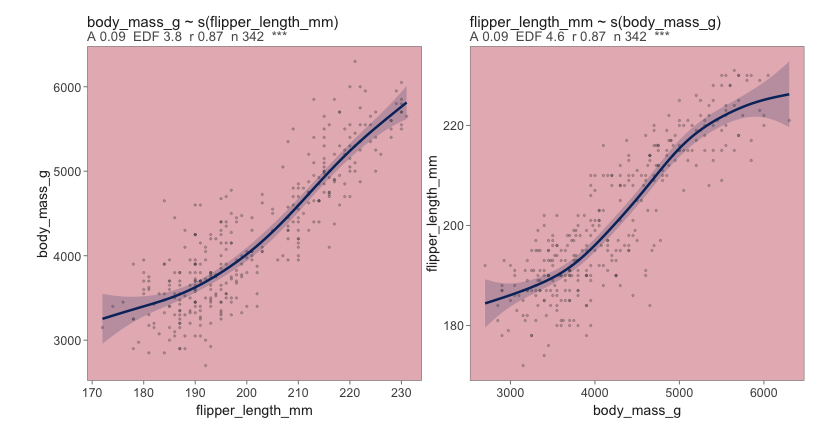
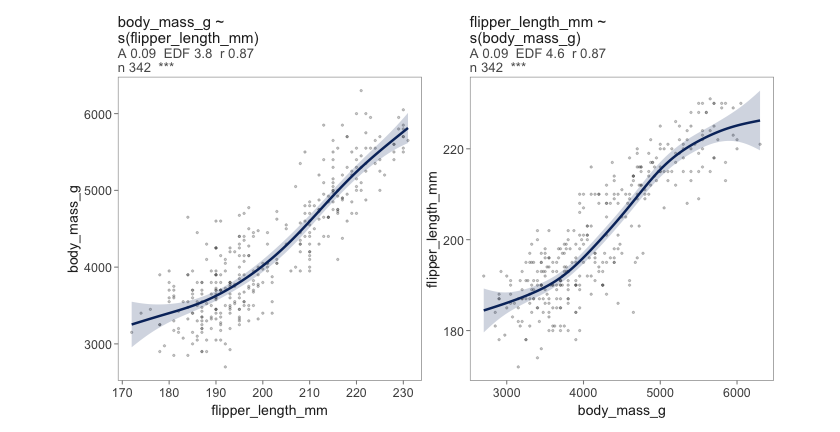
docs: rebuild the README on the current defaults and correct its text
Strip bullet matches the code (A in the upper triangle, dropped from
thirteen variables); alt text names the blue to orange background in
the README and the vignette; development install from r-universe,
since remotes does not read Additional_repositories; lifecycle badge
stable at 1.0.0; coverage sentence names the workflow, not a badge;
palmerpenguins in the word list.

diff --git a/README.md b/README.md
@@ -15,7 +15,7 @@ both away.
 [![test-coverage](https://github.com/max578/janusplot/actions/workflows/test-coverage.yaml/badge.svg)](https://github.com/max578/janusplot/actions/workflows/test-coverage.yaml)
 [![pkgdown](https://github.com/max578/janusplot/actions/workflows/pkgdown.yaml/badge.svg)](https://max578.github.io/janusplot/)
 [![Lifecycle:
-experimental](https://img.shields.io/badge/lifecycle-experimental-orange.svg)](https://lifecycle.r-lib.org/articles/stages.html#experimental)
+stable](https://img.shields.io/badge/lifecycle-stable-brightgreen.svg)](https://lifecycle.r-lib.org/articles/stages.html#stable)
 <!-- badges: end -->
 
 Asymmetric, GAM-based smoothed-association matrices for continuous
@@ -29,7 +29,9 @@ Two novelties, paired with the asymmetry story:
 
 1.  **Asymmetry index**
     `A = |EDF_yx − EDF_xy| / (EDF_yx + EDF_xy) ∈ [0, 1]` — a
-    single-number summary of the directional disparity per pair.
+    single-number summary of the directional disparity per pair. It
+    varies a good deal from sample to sample, so `janusplot_reference()`
+    gives the size it reaches by chance for a pair.
 2.  **27-category shape taxonomy** — each fitted smooth is classified
     into one of 27 named shapes (`linear_up`, `skewed_peak`, `bimodal`,
     `bi_wave`, `rippled_monotone`, …) via a `(T, I)` dispatch on
@@ -62,21 +64,21 @@ directions differ and what shape each curve takes.
 # released version from CRAN
 install.packages("janusplot")
 
-# development version from GitHub
-pak::pak("max578/janusplot")
+# development version, with the vignettes built, from r-universe
+install.packages("janusplot",
+                 repos = c("https://max578.r-universe.dev",
+                           "https://cloud.r-project.org"))
 ```
 
-Installing from GitHub does not build the vignettes. To read them
-locally from a GitHub install, use
-`remotes::install_github("max578/janusplot", build_vignettes = TRUE, dependencies = TRUE)`.
-The CRAN release ships them built.
+`janusplot_direction()` needs the suggested package kernR, which is not
+on CRAN:
+`install.packages("kernR", repos = "https://max578.r-universe.dev")`.
 
 ## Quick start
 
-Fit once, then draw. The examples use the Palmer penguins data from
-the suggested package palmerpenguins
-(`install.packages("palmerpenguins")`). Any data frame with numeric
-columns works the same way, for example
+Fit once, then draw. The examples use the Palmer penguins data from the
+suggested package palmerpenguins (`install.packages("palmerpenguins")`).
+Any data frame with numeric columns works the same way, for example
 `janusplot_fit(mtcars[, c("mpg", "hp", "wt", "qsec")])`.
 
 ``` r
@@ -91,16 +93,16 @@ fit
 #> engine = bam, method = fREML, adjust = none
 #> no flags
 #> Largest asymmetries:
-#>   bill_length_mm <-> body_mass_g  A = 0.55  (rippled_monotone | linear_up)
-#>   bill_length_mm <-> bill_depth_mm  A = 0.10  (bimodal | bimodal)
-#>   flipper_length_mm <-> body_mass_g  A = 0.09  (s_shape | s_shape)
-#>   bill_depth_mm <-> body_mass_g  A = 0.08  (warped_wave | warped_wave)
-#>   bill_depth_mm <-> flipper_length_mm  A = 0.02  (warped_wave | warped_wave)
+#>   bill_length_mm <-> body_mass_g  A = 0.55  body_mass_g ~ bill_length_mm: EDF 3.4, p < 0.001, rippled_monotone | bill_length_mm ~ body_mass_g: EDF 1.0, p < 0.001, linear_up
+#>   bill_length_mm <-> bill_depth_mm  A = 0.10  bill_depth_mm ~ bill_length_mm: EDF 6.8, p < 0.001, bimodal | bill_length_mm ~ bill_depth_mm: EDF 5.6, p < 0.001, bimodal
+#>   flipper_length_mm <-> body_mass_g  A = 0.09  body_mass_g ~ flipper_length_mm: EDF 3.8, p < 0.001, s_shape | flipper_length_mm ~ body_mass_g: EDF 4.6, p < 0.001, s_shape
+#>   bill_depth_mm <-> body_mass_g  A = 0.08  body_mass_g ~ bill_depth_mm: EDF 7.4, p < 0.001, warped_wave | bill_depth_mm ~ body_mass_g: EDF 6.3, p < 0.001, warped_wave
+#>   bill_depth_mm <-> flipper_length_mm  A = 0.02  flipper_length_mm ~ bill_depth_mm: EDF 7.1, p < 0.001, warped_wave | bill_depth_mm ~ flipper_length_mm: EDF 7.4, p < 0.001, warped_wave
 #> Use summary() for the per-cell table and plot() for the matrix.
 plot(fit)
 ```
 
-<img src="man/figures/README-quickstart-1.png" alt="Four-by-four asymmetric association matrix for the Palmer penguins bill, flipper and body-mass traits, with coloured cell borders and red or blue cell backgrounds." width="100%" />
+<img src="man/figures/README-quickstart-1.png" alt="Four-by-four asymmetric association matrix for the Palmer penguins bill, flipper and body-mass traits, with coloured cell borders and blue to orange cell backgrounds." width="100%" />
 
 Each cell `[r, c]` shows `row ~ s(column)`, with the key in the top-left
 corner. By default:
@@ -112,9 +114,11 @@ corner. By default:
   (`background_by =` takes `"spearman"`, `"kendall"` or `"none"`). A fit
   with `adjust` draws no background, since its curves are adjusted and
   the correlation is marginal.
-- **Strip above each cell**: the asymmetry index `A` and the
-  significance glyph of the smooth’s F-test below eight variables, the
-  glyph alone from eight.
+- **Strip above each cell**: the significance glyph of the smooth’s
+  F-test and, in the upper triangle, the asymmetry index `A` of the
+  pair, written once because it belongs to the pair. From thirteen
+  variables the strip carries the glyph alone, and `A` is read from
+  `summary()`.
 - **Appearance**: every setting lives in `janusplot_style()`, passed as
   `style =`.
 
@@ -241,7 +245,7 @@ scope and explicit non-claims.
 Version 1.0.0. [`API_STABILITY.md`](API_STABILITY.md) lists the exported
 functions and their lifecycle; [`NEWS.md`](NEWS.md) lists the changes
 from 0.2.0. The `testthat` suite includes `vdiffr` visual-regression
-snapshots; coverage is tracked through the Codecov badge above.
+snapshots, and the test-coverage workflow above reports line coverage.
 
 ## Contributing
 
